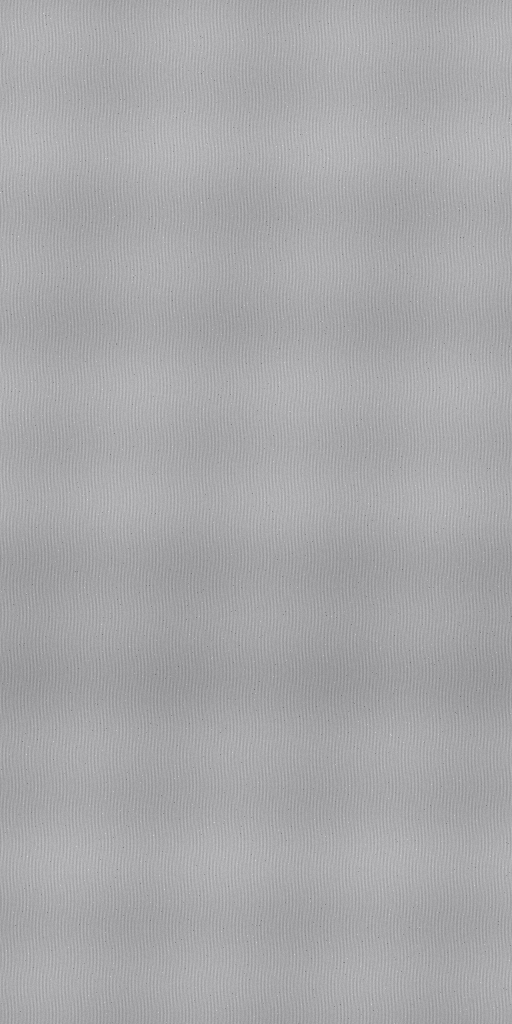
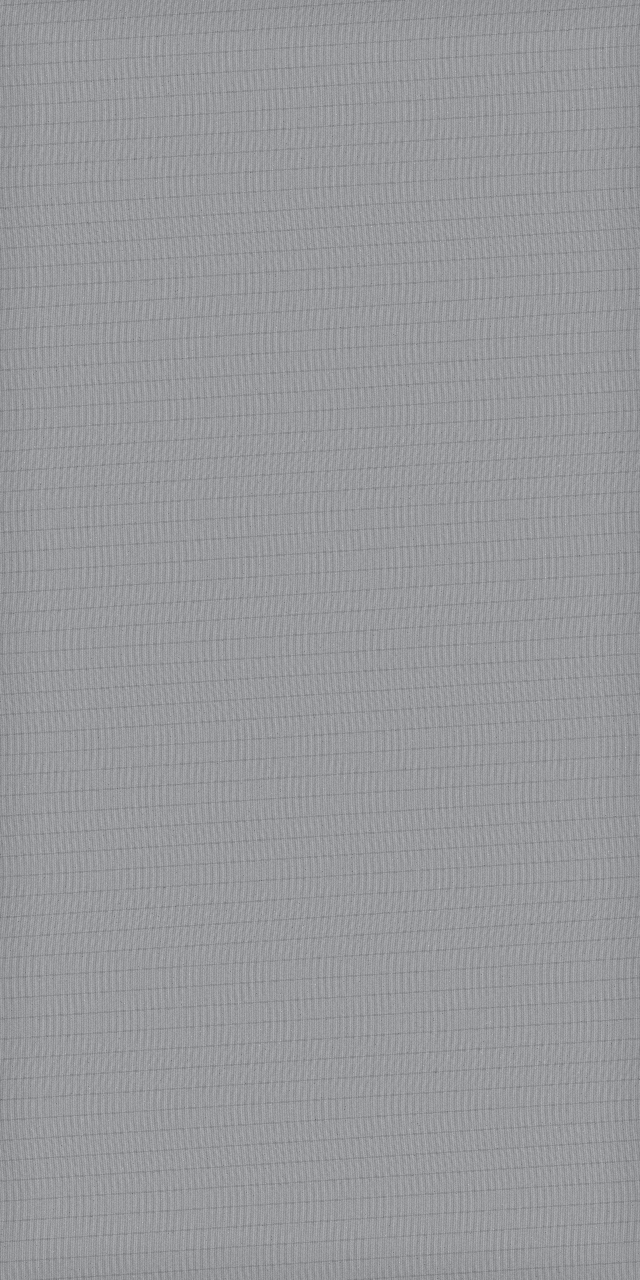
Match reference transport and quiet the status bay
Hide Tab on narrow viewports (4-button face like the bar),
drop status-bay meta clutter, flatten button gloss, and
regenerate a more irregular brushed-metal texture.

diff --git a/src/style.css b/src/style.css
@@ -250,38 +250,40 @@ select {
 }
 
 .rack-btn {
-  min-width: 52px;
-  min-height: 44px;
-  padding: 5px 7px 7px;
+  min-width: 48px;
+  min-height: 40px;
+  padding: 4px 6px 6px;
   display: flex;
   flex-direction: column;
   align-items: center;
   justify-content: space-between;
-  gap: 5px;
-  border: 1px solid #050506;
-  border-radius: 3px;
-  background:
-    linear-gradient(145deg, rgba(255, 255, 255, 0.08) 0%, transparent 42%),
-    linear-gradient(180deg, var(--btn-hi) 0%, var(--btn-face) 48%, var(--btn-lo) 100%);
+  gap: 4px;
+  border: 1px solid #0a0a0c;
+  border-radius: 2px;
+  background: linear-gradient(180deg, #3a3a3e 0%, #2a2a2e 55%, #1e1e22 100%);
   box-shadow:
-    inset 0 1px 0 rgba(255, 255, 255, 0.14),
-    inset 0 -3px 4px rgba(0, 0, 0, 0.6),
-    inset 2px 0 3px rgba(0, 0, 0, 0.25),
-    inset -2px 0 3px rgba(0, 0, 0, 0.25),
-    0 2px 3px rgba(0, 0, 0, 0.45),
-    0 1px 0 rgba(255, 255, 255, 0.16);
-  color: #d2d2ce;
-  font-size: 8px;
+    inset 0 1px 0 rgba(255, 255, 255, 0.1),
+    inset 0 -2px 3px rgba(0, 0, 0, 0.55),
+    0 1px 2px rgba(0, 0, 0, 0.4);
+  color: #cfcfcb;
+  font-size: 7.5px;
   font-weight: 700;
   letter-spacing: 0.1em;
   text-transform: uppercase;
   cursor: pointer;
   flex-shrink: 0;
-  text-shadow: 0 1px 0 rgba(0, 0, 0, 0.65);
+  text-shadow: 0 1px 0 rgba(0, 0, 0, 0.7);
 }
 
 .rack-btn-tab {
-  min-width: 42px;
+  display: none;
+}
+
+@media (min-width: 721px) {
+  .rack-btn-tab {
+    display: flex;
+    min-width: 42px;
+  }
 }
 
 .rack-btn:hover:not(:disabled) {
@@ -327,12 +329,7 @@ select {
 }
 
 .status-meta {
-  display: flex;
-  gap: 10px;
-  color: rgba(42, 36, 22, 0.42);
-  font-size: 9px;
-  text-transform: uppercase;
-  letter-spacing: 0.05em;
+  display: none;
 }
 
 .honesty {
